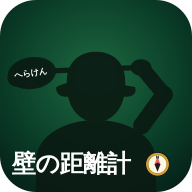
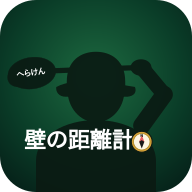
chore: アイコン文字位置を上に・コンパスを詰める / フォントをメイリオ系統に
- アイコン: 「壁の距離計」のy位置を 458 → 395 へ引き上げ
- アイコン: コンパスを文字直後にぴったり寄せる (gap削減)
- 全体font-familyにMeiryo, メイリオを最優先指定
  (端末にあればMeiryoが当たり、なければHiragino→Noto→システム順でフォールバック)

https://claude.ai/code/session_01NYx1Nb1rqFaJq58TZqeUTk

Changed region(s): [[0.0625, 0.6562, 0.9062, 0.9375], [0.0625, 0.3438, 0.25, 0.4062]]

diff --git a/src/app/globals.css b/src/app/globals.css
@@ -23,8 +23,9 @@ body {
   padding: 0;
   background: var(--bg);
   color: var(--text);
-  font-family: -apple-system, BlinkMacSystemFont, "Hiragino Kaku Gothic ProN",
-    "Hiragino Sans", "Yu Gothic UI", sans-serif;
+  font-family: "Meiryo", メイリオ, "Hiragino Sans", "ヒラギノ角ゴシック",
+    "Hiragino Kaku Gothic ProN", "Yu Gothic UI", "Noto Sans JP",
+    -apple-system, BlinkMacSystemFont, sans-serif;
   font-size: 16px;
   overscroll-behavior: none;
   -webkit-font-smoothing: antialiased;
